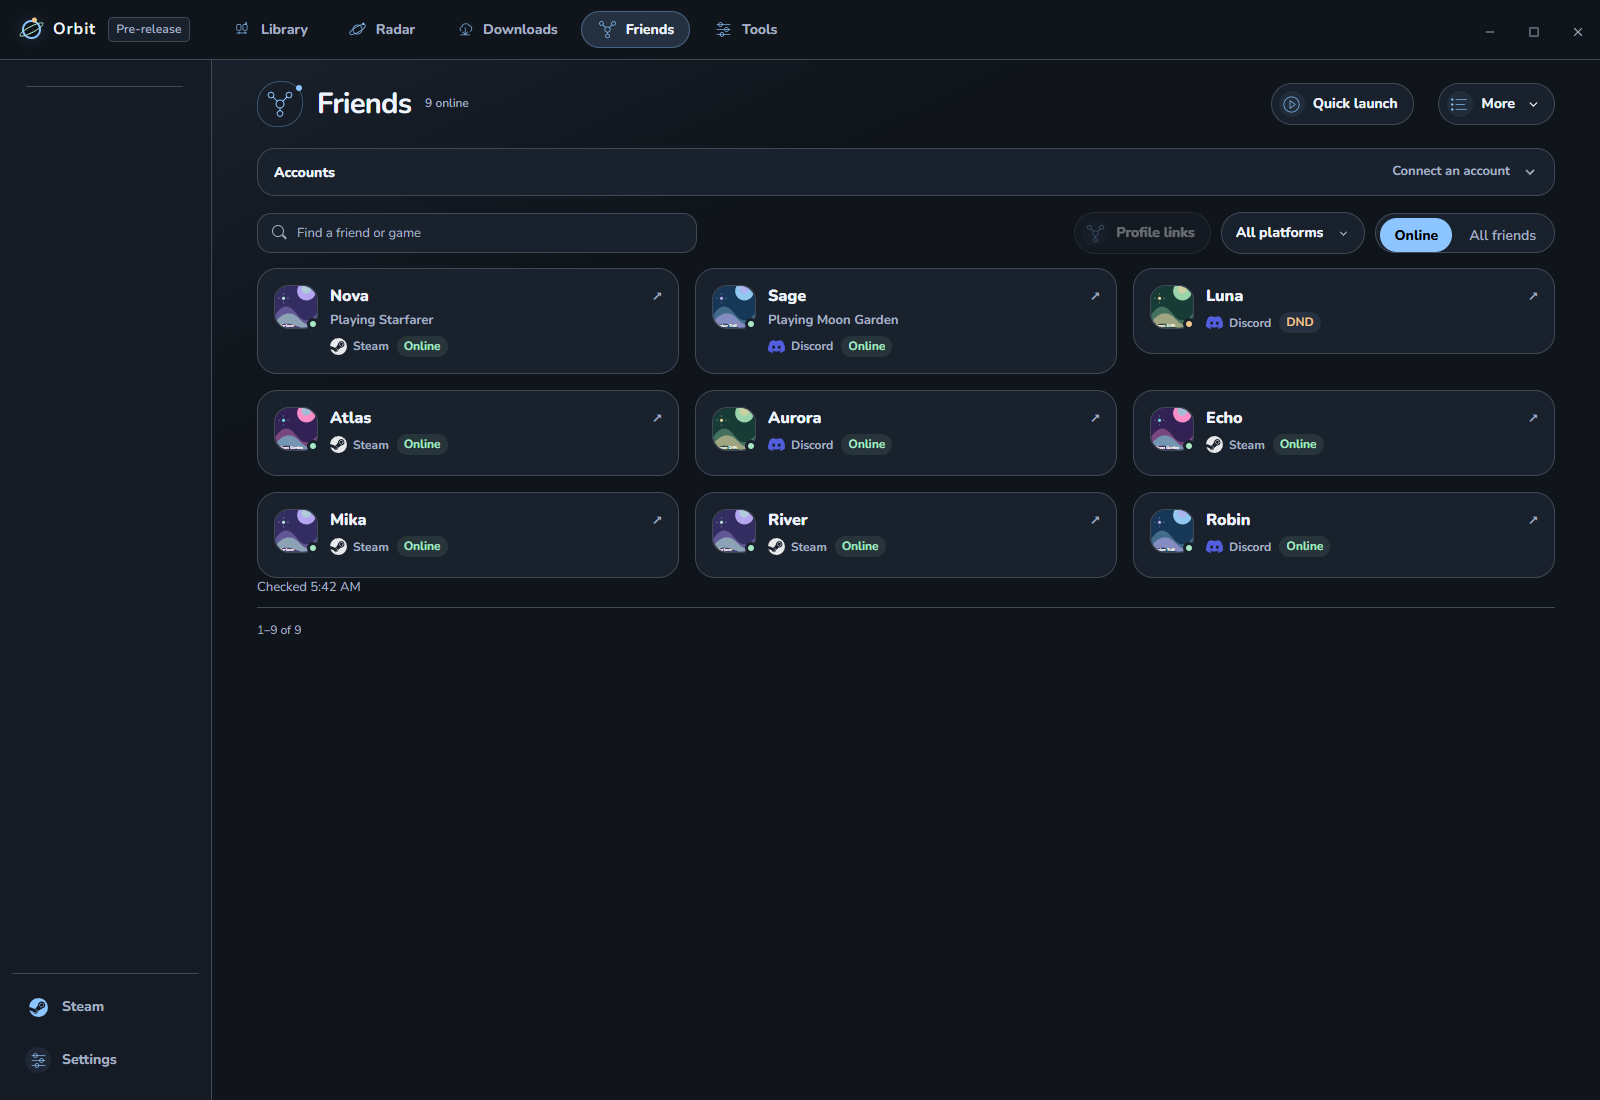
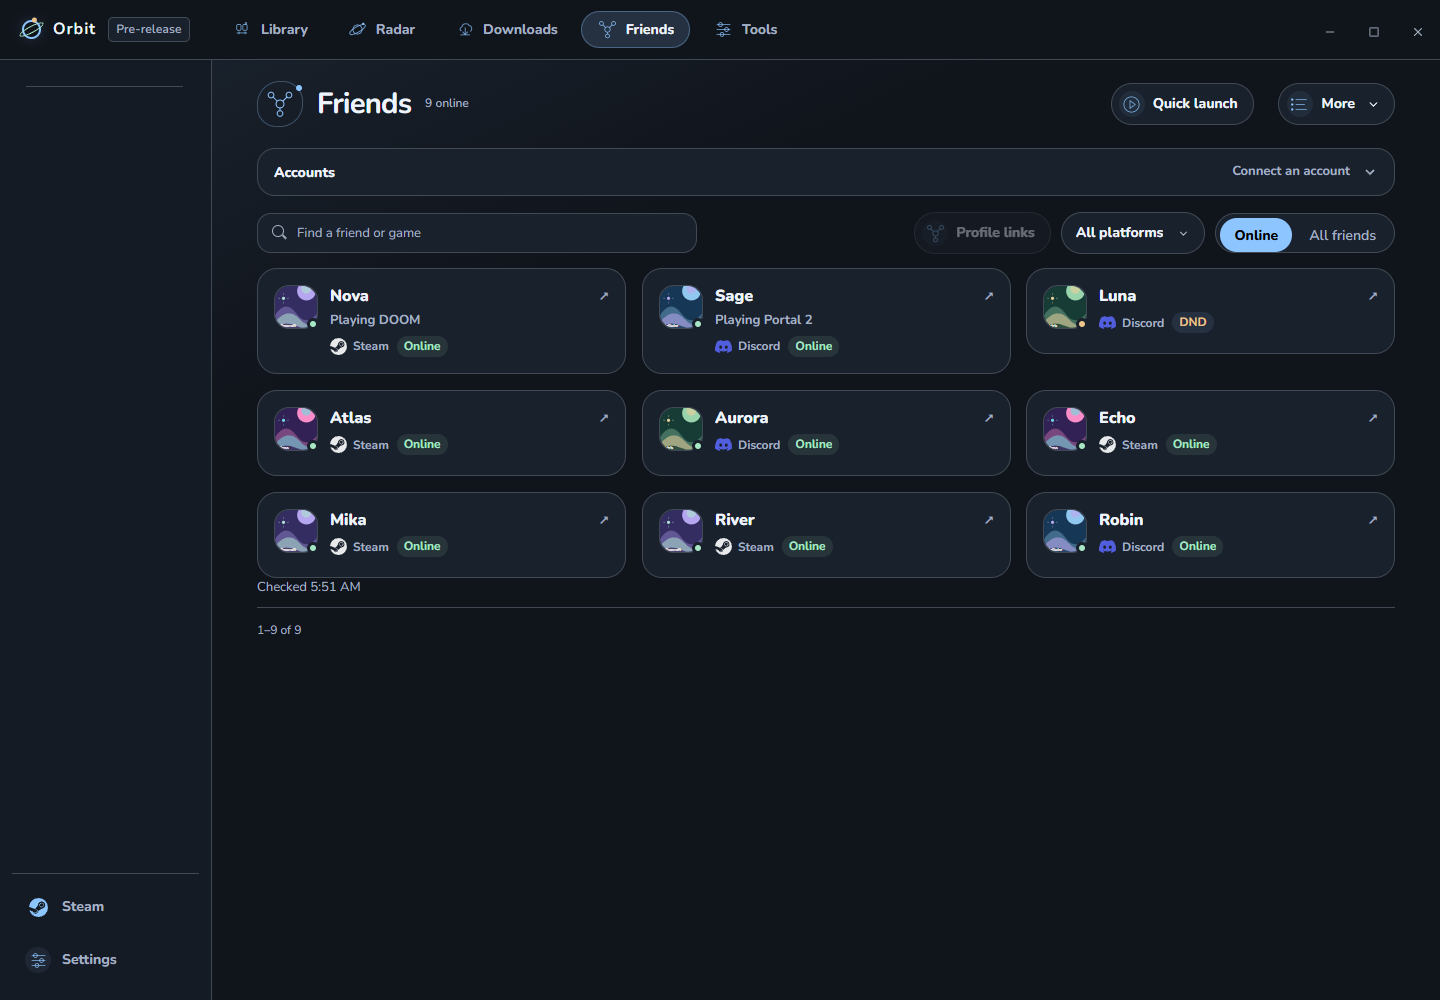
Use recognizable games and publisher artwork in README examples

diff --git a/README.md b/README.md
@@ -4,7 +4,7 @@ A Windows launcher for your game libraries, local games, and tools. Find somethi
 
 ![Orbit with an example Desktop library](docs/screenshots/orbit-library.png)
 
-*Screenshots use sample data from the current development build. Published builds may differ. Orbit is in pre-release.*
+*Example library with real games and publisher artwork. Profiles, playtime, and downloads are sample data. Screenshots show the development build; published builds may differ.*
 
 ## Get started
 
